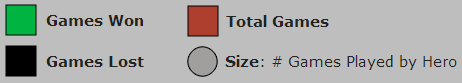
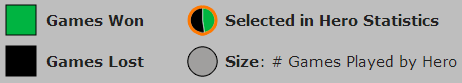
viz2 fixed bug with updating selected, updated header text & keys by filter type

Changed region(s): [[0.3939, 0.0482, 0.9697, 0.4578]]

diff --git a/content/js/viz2_contentManager.js b/content/js/viz2_contentManager.js
@@ -1,6 +1,6 @@
   function viz2_contentManager() {
-	  highlighted_nodes = [];
-	  highlighted_nodes_position = {};
+	  viz2_state = "filterby_popularity";
+	  
 	  
 	  $('#ui-id-2').click(function(e) { 
 	  	if (default_view == true) {
@@ -9,12 +9,28 @@
 		    popularity_exists = true;
 			default_view = false;
 			$("#dropdownText").text("Popularity");
+			$("#viz2_header").html("Win | Lose Rate ordered by the most played heroes for The International 3 Tournament.<br>Ordered by clusters of 5 from most played to least played.");
+			$("#viz2_header_images").html("<img src='content/images/viz2_popularityKey.png' /><img src='content/images/viz2_hoverInstructions.png' style='margin-left:30px;'/><img src='content/images/viz2_selectKey.png' style='margin-left:30px;'/>");
+			
 		}
-		if (filterbystats_view == true) {
+		/*if (filterbystats_view == true) {
 			$('#viz2_content').remove();
 			popularity_exists = false;
 			viz2_byTypeWrapper();
 			viz2_content_bySelected();
+		}*/
+		
+		if (current_state != movement) {
+			popularity_exists = false;
+			default_view == false;
+			$('#'+viz2_state).click();
+			current_state = movement;	
+		}
+		
+		if ((current_table_movement != table_movement) && (viz2_state == "filterby_heroStatistics")) {
+			$('#'+viz2_state).click();
+			current_table_movement = table_movement;
+			
 		}
 		  
 	  });
@@ -26,8 +42,10 @@
 			viz2_content_bySelected();
 			filterbystats_view = true;
 			d3.select('#fragment-2').attr('style', 'height: 1800px');
-			$("#dropdownText").text("Selected Heor Statistics");
-			
+			$("#dropdownText").text("Selected Hero Statistics");
+			$("#viz2_header").text("Win | Lose Rate shown and selected in the Hero Statistics table");
+			$("#viz2_header_images").html("<img src='content/images/viz2_key.png' /><img src='content/images/viz2_hoverInstructions.png' style='margin-left:30px;'/>");
+			viz2_state = "filterby_heroStatistics";
 		});
 	  
 	  $('#filterby_popularity').click(function(e) { 
@@ -39,7 +57,9 @@
 			filterbystats_view = false;
 			$("#viz2_content_wrapper").addClass("center_horizontal");
 			$("#dropdownText").text("Popularity");
-			
+			$("#viz2_header").html("Win | Lose Rate ordered by the most played heroes for The International 3 Tournament.<br>Ordered by clusters of 5 from most played to least played.");
+			$("#viz2_header_images").html("<img src='content/images/viz2_popularityKey.png' /><img src='content/images/viz2_hoverInstructions.png' style='margin-left:30px;'/><img src='content/images/viz2_selectKey.png' style='margin-left:30px;'/>");
+			viz2_state = "filterby_popularity";
 			
 		});
 		
@@ -52,7 +72,9 @@
 			filterbystats_view = false;
 			$("#viz2_content_wrapper").addClass("center_horizontal");
 			$("#dropdownText").text("Type - Carry");
-			
+			$("#viz2_header").text("Win | Lose Rate shown and selected in the Hero Statistics table by Hero Type");
+			$("#viz2_header_images").html("<img src='content/images/viz2_key.png' /><img src='content/images/viz2_hoverInstructions.png' style='margin-left:30px;'/>");
+			viz2_state = "filterby_type_carry";
 		});
 	$('#filterby_type_mid').click(function(e) { 
 			$('#viz2_content').remove();
@@ -63,6 +85,9 @@
 			filterbystats_view = false;
 			$("#viz2_content_wrapper").addClass("center_horizontal");
 			$("#dropdownText").text("Type - Mid");
+			$("#viz2_header").text("Win | Lose Rate shown and selected in the Hero Statistics table by Hero Type");
+			$("#viz2_header_images").html("<img src='content/images/viz2_key.png' /><img src='content/images/viz2_hoverInstructions.png' style='margin-left:30px;'/>");
+			viz2_state = "filterby_type_mid";
 		});
 	$('#filterby_type_offlane').click(function(e) { 
 			$('#viz2_content').remove();
@@ -73,6 +98,9 @@
 			filterbystats_view = false;
 			$("#viz2_content_wrapper").addClass("center_horizontal");
 			$("#dropdownText").text("Type - Offlane");
+			$("#viz2_header").text("Win | Lose Rate shown and selected in the Hero Statistics table by Hero Type");
+			$("#viz2_header_images").html("<img src='content/images/viz2_key.png' /><img src='content/images/viz2_hoverInstructions.png' style='margin-left:30px;'/>");
+			viz2_state = "filterby_type_offlane";
 		});
 	$('#filterby_type_jungler').click(function(e) { 
 			$('#viz2_content').remove();
@@ -83,6 +111,9 @@
 			filterbystats_view = false;
 			$("#viz2_content_wrapper").addClass("center_horizontal");
 			$("#dropdownText").text("Type - Farming Support");
+			$("#viz2_header").text("Win | Lose Rate shown and selected in the Hero Statistics table by Hero Type");
+			$("#viz2_header_images").html("<img src='content/images/viz2_key.png' /><img src='content/images/viz2_hoverInstructions.png' style='margin-left:30px;'/>");
+			viz2_state = "filterby_type_jungler";
 		});
 	$('#filterby_type_support').click(function(e) { 
 			$('#viz2_content').remove();
@@ -93,6 +124,9 @@
 			filterbystats_view = false;
 			$("#viz2_content_wrapper").addClass("center_horizontal");
 			$("#dropdownText").text("Type - Hard Support");
+			$("#viz2_header").text("Win | Lose Rate shown and selected in the Hero Statistics table by Hero Type");
+			$("#viz2_header_images").html("<img src='content/images/viz2_key.png' /><img src='content/images/viz2_hoverInstructions.png' style='margin-left:30px;'/>");
+			viz2_state = "filterby_type_support";
 		});
 		
   }

diff --git a/windrunner.html b/windrunner.html
@@ -33,7 +33,11 @@
    $(function() {
 	 popularity_exists = true;
 	 default_view = true;
+	 movement = 0;
+	 current_state = 0;
      //generateContent_viz2();
+	 current_table_movement = 0;
+	 table_movement = 0;
 	 viz2_contentManager();
     
    });
@@ -164,6 +168,7 @@
 							}
 						},
 						"click": function(d) { 
+							movement++;
 							isSelected[d.hero] = !isSelected[d.hero];
 							if (isSelected[d.hero]) {
 								highlighted.push(d);
@@ -213,6 +218,7 @@
 							}
 						},
 						"click": function(d) { 
+							movement++;
 							isSelected[d.hero] = !isSelected[d.hero];
 							if (isSelected[d.hero]) {
 								highlighted.push(d);
@@ -243,6 +249,7 @@
       
         // update data table on brush event
         parcoords.on("brush", function(d) {
+			table_movement++;
 					shown = d;
 					parcoords.unhighlight();
 					highlighted = [];
@@ -269,6 +276,7 @@
 								}
 							},
 							"click": function(d) { 
+							movement++;
 								isSelected[d.hero] = !isSelected[d.hero];
 								if (isSelected[d.hero]) {
 									highlighted.push(d);
@@ -286,10 +294,12 @@
       });
     </script>  </div>
   <div id="fragment-2" style="height:9290px; margin:auto;" class="fragment2background">
-  	<div style="font-size:18px; text-align:center; background-color: #bebebe; padding-top:10px; height:155px;">Win | Lose Rate ordered by the most played heroes for The International 3 Tournament.<br>Ordered by clusters of 5 from most played to least played. <br><br>
-    <img src="content/images/viz2_key.png" />
-    <img src="content/images/viz2_hoverInstructions.png" style="margin-left:30px;"/>
+  	<div style="font-size:18px; text-align:center; background-color: #bebebe; padding-top:10px; height:155px;"><span id="viz2_header"></span><br><br>
+    <span id="viz2_header_images">
+  
+    </span>
     </div>
+    
     <p id='chart'></p>
     <div id="viz2_content_wrapper"style="width:1000px;" class="center_horizontal">
     <div style="margin-bottom: 10px;">
